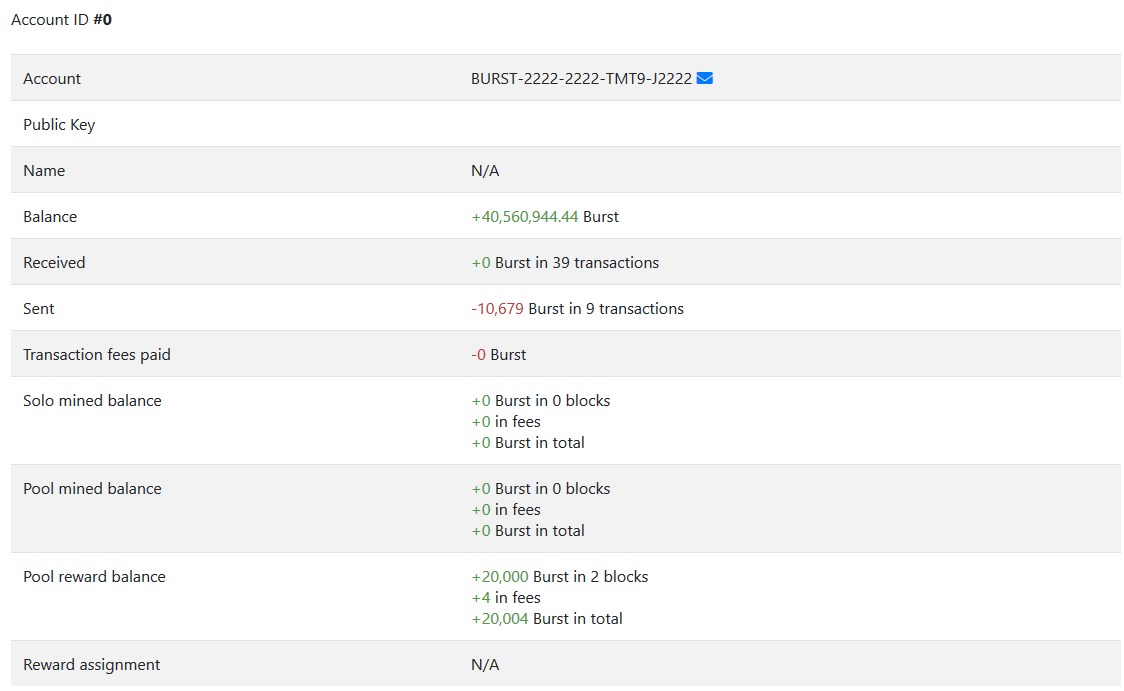
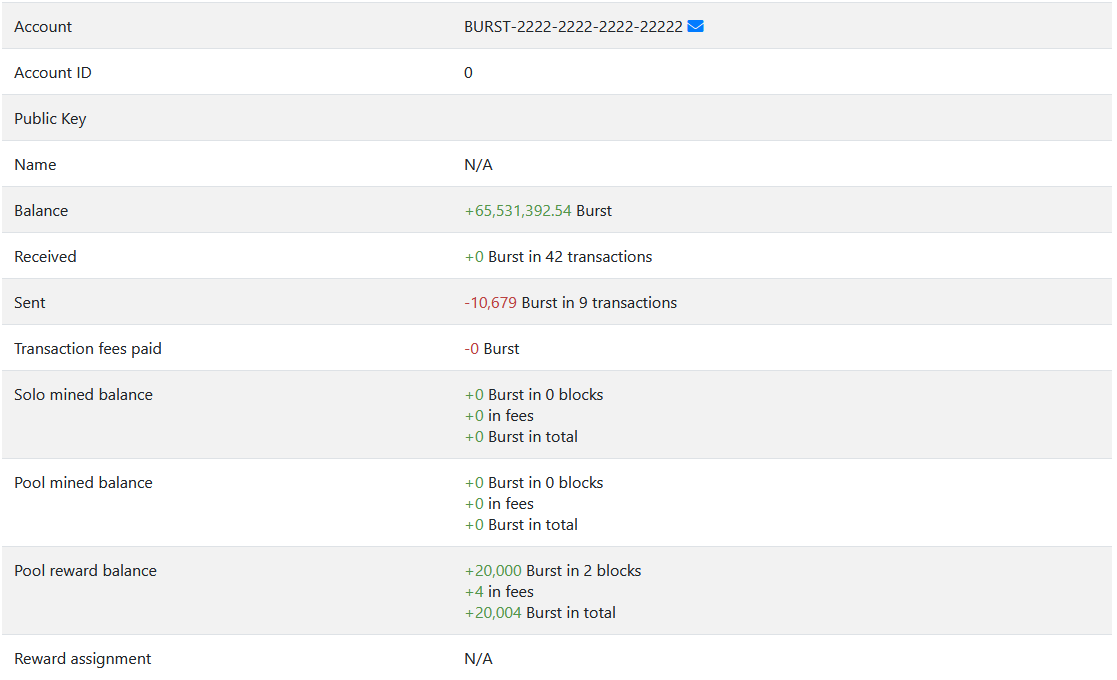
Updated screenshot and account

diff --git a/docs/en/internal-at-and-escrow-account.md b/docs/en/internal-at-and-escrow-account.md
@@ -1,6 +1,6 @@
 The internal AT (automated transaction) and escrow account is used for execution of automated transactions and escrow payments, as an internal intermediary party i.e. it cannot be the sender or recipient of a transaction.
 
-The account information is visible when it is accessed through the Block Explorer, using the following link: <https://explorer.burstcoin.network/?action=account&account=0> . The account has the numeric ID 0 and a Burst address BURST-2222-2222-TMT9-J2222. 
+The account information is visible when it is accessed through the Block Explorer, using the following link: <https://explorer.burstcoin.network/?action=account&account=0> . The account has the numeric ID 0 and a Burst address BURST-2222-2222-2222-22222. 
 
 ![numeric 0](../../media/Block_Explorer_Account_0.png "numeric 0")
 
